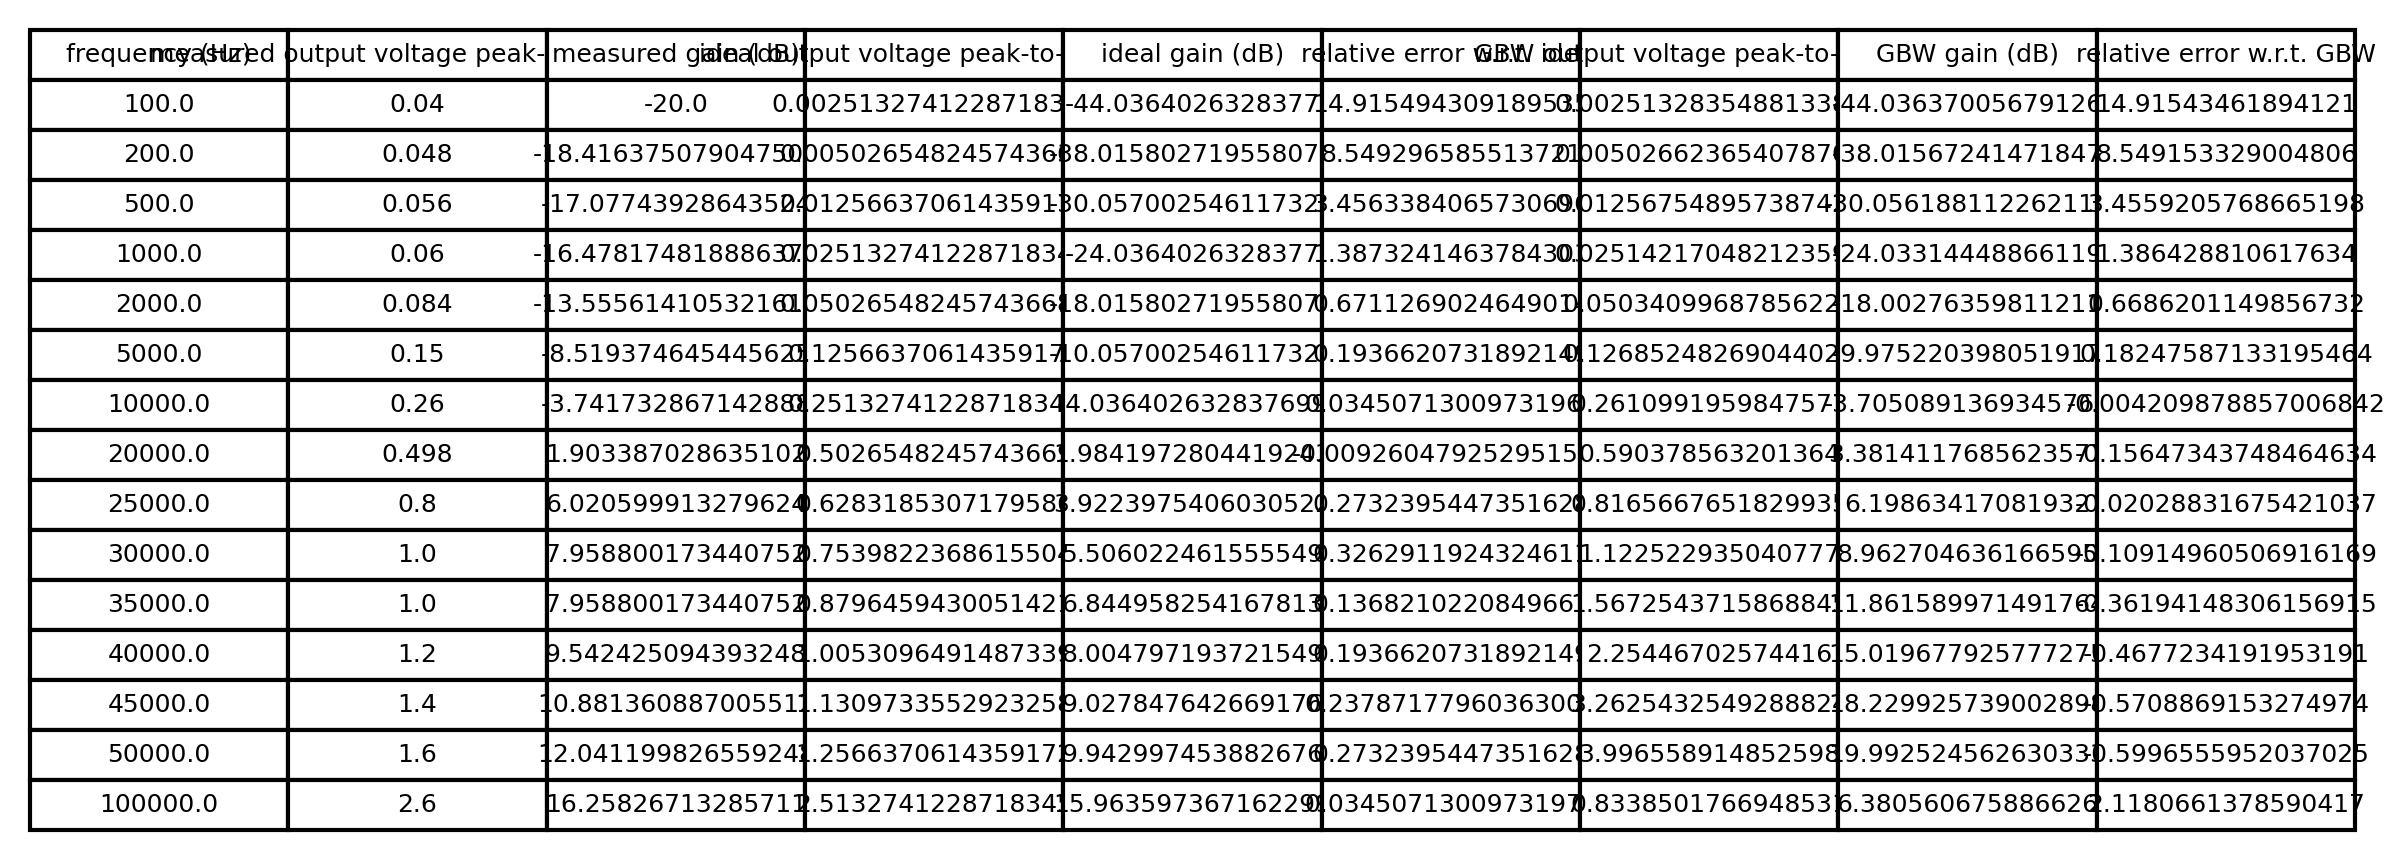
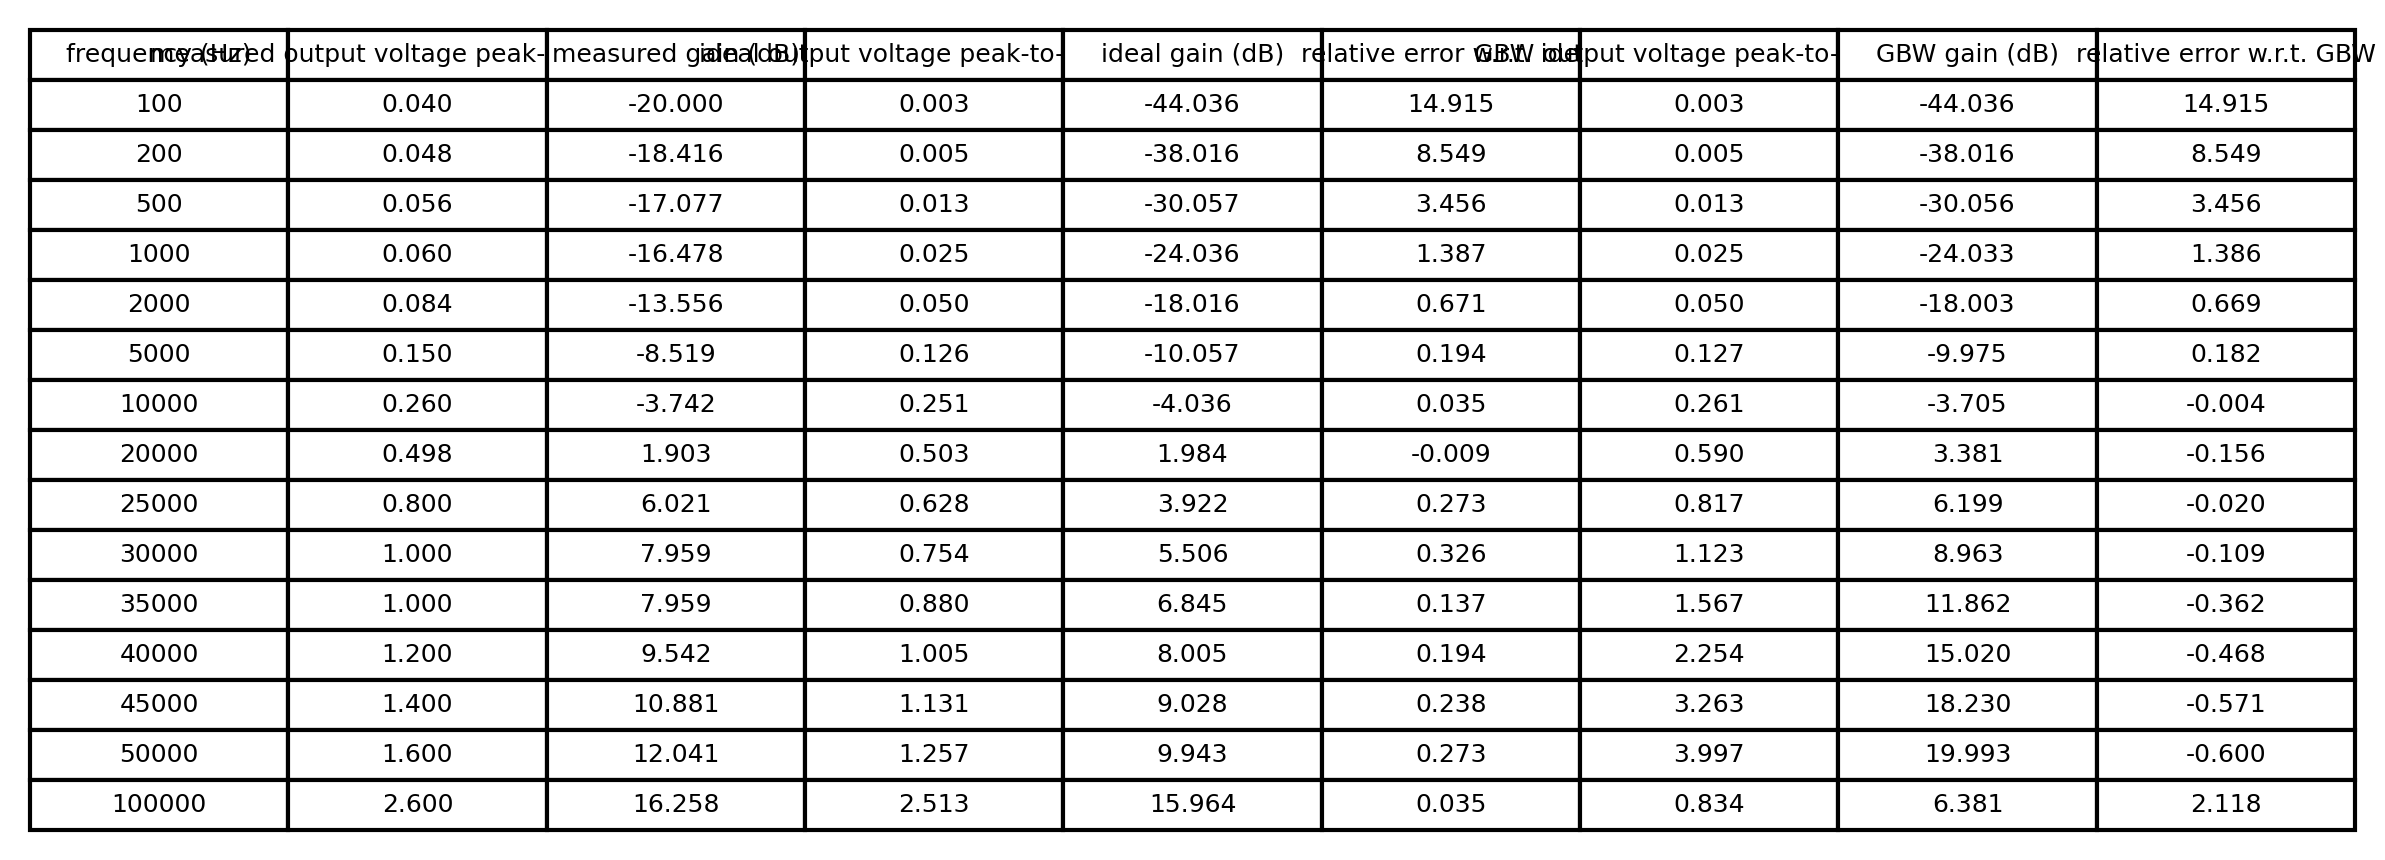
2026-10-20T17:31:42+00:00

diff --git a/2/post-lab/bode_plot.py b/2/post-lab/bode_plot.py
@@ -61,8 +61,19 @@ def process(C, freq, vout_pp, name, title, plotname, tablename):
         "GBW gain (dB)",
         "relative error w.r.t. GBW",
     ]
-    data = np.column_stack(
+    data = [
         [
+            f"{f:.0f}",
+            f"{m:.3f}",
+            f"{md:.3f}",
+            f"{i:.3f}",
+            f"{id:.3f}",
+            f"{ie:.3f}",
+            f"{g:.3f}",
+            f"{gd:.3f}",
+            f"{ge:.3f}",
+        ]
+        for f, m, md, i, id, ie, g, gd, ge in zip(
             freq,
             measured,
             measured_db,
@@ -72,8 +83,8 @@ def process(C, freq, vout_pp, name, title, plotname, tablename):
             gbw_vout,
             gbw_db,
             gbw_error,
-        ]
-    )
+        )
+    ]
     fig, ax = plt.subplots(figsize=(10, 2))
     ax.axis("off")
     table = ax.table(
